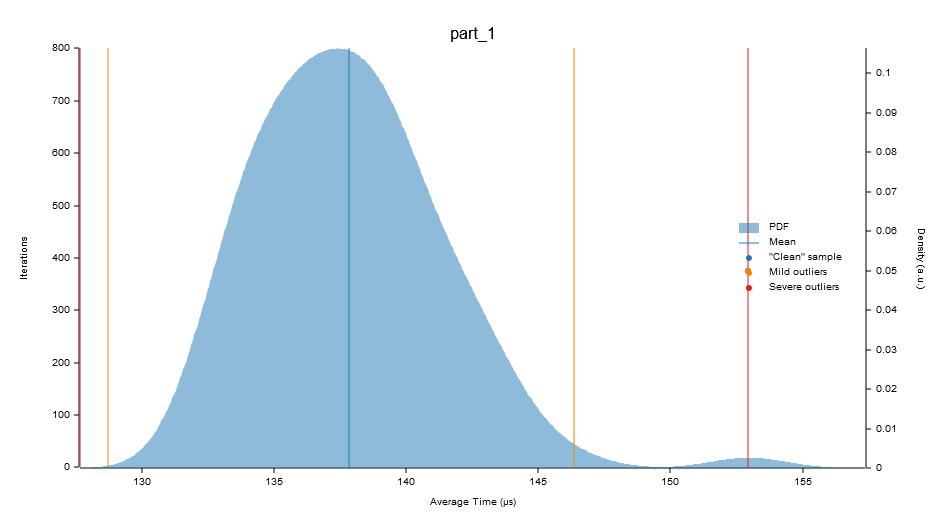
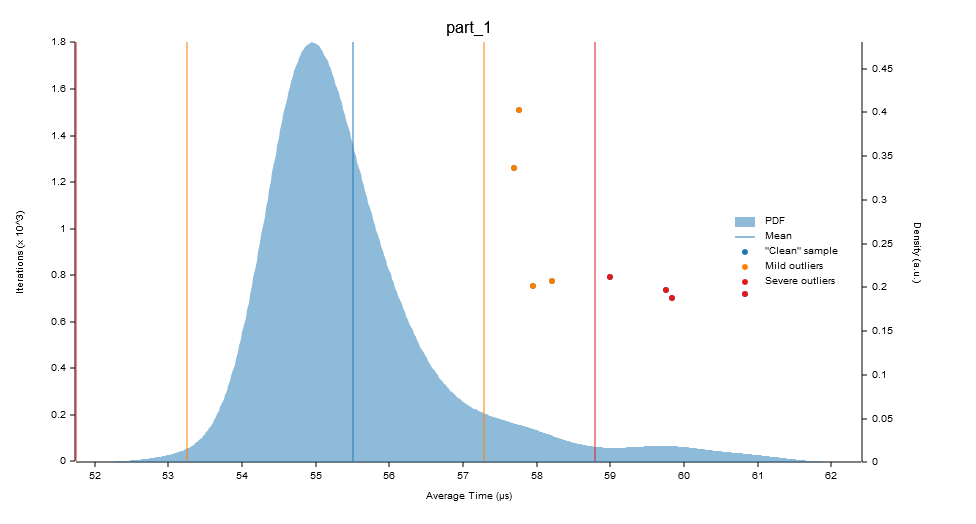
aoc 2023 day 5

diff --git a/2023/day5/src/part_1.rs b/2023/day5/src/part_1.rs
@@ -1,34 +1,11 @@
-use std::{collections::HashMap, fs};
-
-fn get_location(main: &HashMap<String, HashMap<usize, usize>>, seed_number: usize) -> usize {
-    let soil = main["soil"]
-        .get(&seed_number)
-        .unwrap_or_else(|| &seed_number);
-
-    let fertilizer = main["fertilizer"].get(&soil).unwrap_or_else(|| &soil);
-
-    let water = main["water"]
-        .get(&fertilizer)
-        .unwrap_or_else(|| &fertilizer);
-
-    let light = main["light"].get(&water).unwrap_or_else(|| &water);
-
-    let temperature = main["temperature"].get(&light).unwrap_or_else(|| &light);
-
-    println!("temperature{}", temperature);
-    let humidity = main["humidity"]
-        .get(&temperature)
-        .unwrap_or_else(|| &temperature);
-
-    humidity.clone()
-}
+use std::fs;
 
 pub fn run(file_name: &str) -> usize {
     let input = fs::read_to_string(file_name).expect("failed to read file");
 
-    let seeds: Vec<usize> = input
-        .lines()
-        .nth(0)
+    let mut blocks = input.split("\r\n\r\n");
+    let seeds: Vec<usize> = blocks
+        .next()
         .unwrap()
         .split("seeds: ")
         .nth(1)
@@ -37,68 +14,30 @@ pub fn run(file_name: &str) -> usize {
         .map(|x| x.parse().unwrap())
         .collect();
 
-    let mut counter = 0;
-    let mut map: HashMap<usize, usize> = HashMap::new();
+    let maps: Vec<Vec<Vec<usize>>> = blocks
+        .map(|x| {
+            x.lines()
+                .skip(1)
+                .map(|y| y.split(" ").map(|z| z.parse().unwrap()).collect())
+                .collect()
+        })
+        .collect();
 
-    let mut main: HashMap<String, HashMap<usize, usize>> = HashMap::new();
+    let value = seeds
+        .into_iter()
+        .map(|seed: usize| {
+            maps.iter().fold(seed, |location, map| {
+                for sub_map in map {
+                    if location >= sub_map[1] && location < (sub_map[1] + sub_map[2]) {
+                        return location - sub_map[1] + sub_map[0];
+                    }
+                }
 
-    for line in input.lines() {
-        if counter < 2 {
-            counter += 1;
-            continue;
-        }
+                location
+            })
+        })
+        .min()
+        .unwrap();
 
-        if line.split(" ").count() != 3 {
-            if line.is_empty() {
-                continue;
-            }
-
-            let name = line.to_string().split("-").nth(0).unwrap().to_string();
-            main.insert(name, map);
-            map = HashMap::new();
-            continue;
-        }
-
-        let sp: Vec<usize> = line.split(" ").map(|x| x.parse().unwrap()).collect();
-        let destination_range = sp[0];
-        let source_range = sp[1];
-        let range = sp[2];
-
-        let dest_range: Vec<usize> = (destination_range..(destination_range + range)).collect();
-        let src_range: Vec<usize> = (source_range..(source_range + range)).collect();
-
-        for i in 0..dest_range.clone().len() {
-            map.insert(src_range[i], dest_range[i]);
-        }
-    }
-
-    let mut lowest = 1000000000;
-    for seed in seeds {
-        let a = get_location(&main, seed);
-        if a < lowest {
-            lowest = a;
-        }
-    }
-
-    lowest
+    value
 }
-
-/*
-50 98 2
-destination range start of 50    starts at 50 and includes [50, 51]
-source range start of 98         starts at 98 and includes [98, 99]
-range length of 2
-
-
-seed number 98 -> soil number 50
-seed number 99 -> soil number 51
-
-52 50 48
-source range  50 -> [50, 51, 52, 53...96,97]
-destion range 52 -> [52, 53, 54, 55...98,99]
-
-seed number 53 -> soil unmber 55
-
-seed number = source range
-soil number = destionion range
-*/

diff --git a/2023/day5/src/part_2.rs b/2023/day5/src/part_2.rs
@@ -2,7 +2,48 @@ use std::fs;
 
 pub fn run(file_name: &str) -> usize {
     let input = fs::read_to_string(file_name).expect("failed to read file");
-    let mut total = 0;
 
-    total
+    let mut blocks = input.split("\r\n\r\n");
+    let seed_chunks: Vec<usize> = blocks
+        .next()
+        .unwrap()
+        .split("seeds: ")
+        .nth(1)
+        .unwrap()
+        .split(" ")
+        .map(|x| x.parse().unwrap())
+        .collect();
+
+    let mut seeds: Vec<usize> = vec![];
+    for chunk in seed_chunks.chunks(2) {
+        let mut val: Vec<usize> = (chunk[0]..(chunk[0] + chunk[1])).collect();
+        seeds.append(&mut val);
+    }
+
+    let maps: Vec<Vec<Vec<usize>>> = blocks
+        .map(|x| {
+            x.lines()
+                .skip(1)
+                .map(|y| y.split(" ").map(|z| z.parse().unwrap()).collect())
+                .collect()
+        })
+        .collect();
+
+    let value = seeds
+        .into_iter()
+        .map(|seed: usize| {
+            maps.iter().fold(seed, |location, map| {
+                for sub_map in map {
+                    if location >= sub_map[1] && location < (sub_map[1] + sub_map[2]) {
+                        return location - sub_map[1] + sub_map[0];
+                    }
+                }
+
+                location
+            })
+        })
+        .min()
+        .unwrap();
+
+    value
 }

diff --git a/2023/day5/src/tests/part_2.rs b/2023/day5/src/tests/part_2.rs
@@ -1,15 +1,15 @@
 use crate::part_2;
 
-//#[test]
+#[test]
 fn part_2_test() {
     let test_part_2 = part_2::run("testinput_2.txt");
     println!("part 2 test value: {}", test_part_2);
-    assert_eq!(test_part_2, 0);
+    assert_eq!(test_part_2, 46);
 }
 
-//#[test]
+#[test]
 fn part_2() {
     let part_2 = part_2::run("input.txt");
     println!("part 2 value: {}", part_2);
-    assert_eq!(part_2, 0);
+    assert_eq!(part_2, 41222968);
 }

diff --git a/2023/day5/src/tests/part_1.rs b/2023/day5/src/tests/part_1.rs
@@ -11,5 +11,5 @@ fn part_1_test() {
 fn part_1() {
     let part_1 = part_1::run("input.txt");
     println!("part 1 value: {}", part_1);
-    assert_eq!(part_1, 0);
+    assert_eq!(part_1, 457535844);
 }

diff --git a/2023/day5/README.md b/2023/day5/README.md
@@ -3,7 +3,7 @@
 **Part 1**
 
 ```
-time:   [137.70 µs 138.40 µs 139.12 µs]
+time:   [55.184 µs 55.384 µs 55.620 µs]
 ```
 
 ![](img/part_1.png)
@@ -11,7 +11,5 @@ time:   [137.70 µs 138.40 µs 139.12 µs]
 **Part 2**
 
 ```
-time:   [132.74 µs 133.60 µs 134.49 µs]
+time:   [around 2-3 minutes with --release flag]
 ```
-
-![](img/part_2.png)
